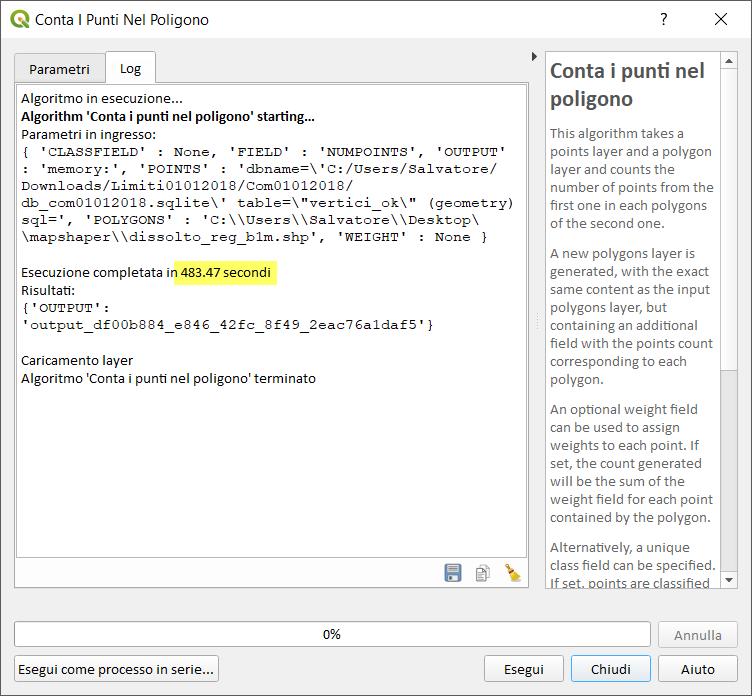
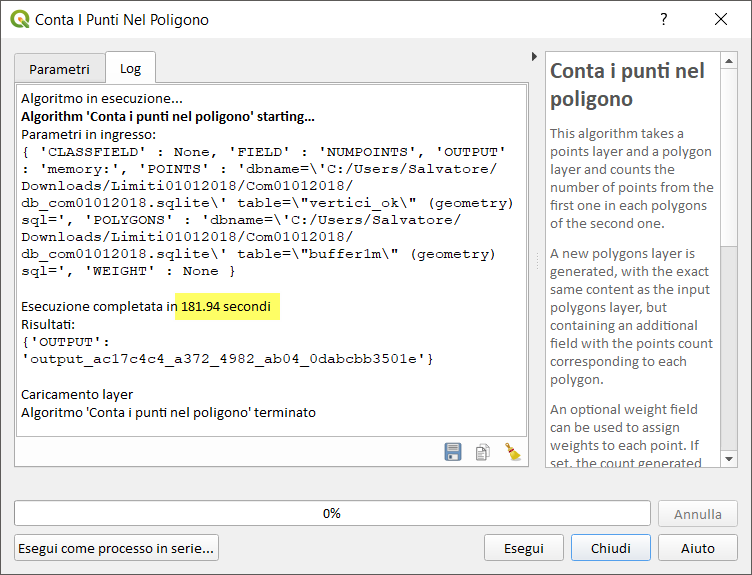
ultime prove

diff --git a/prove/dissolvi_regione.md b/prove/dissolvi_regione.md
@@ -10,6 +10,7 @@ dataset: db sqlite con spatialidex
     - [QGIS 3.3 master](#qgis-33-master)
     - [SpatiaLite_GUI 2.10](#spatialitegui-210)
     - [PostgreSQL 9.3 / PostGIS 2.2.3 / pgAdmin 3](#postgresql-93--postgis-223--pgadmin-3)
+    - [mapshaper](#mapshaper)
     - [RISULTATI (LZ50) - dissolvi per regione](#risultati-lz50---dissolvi-per-regione)
 
 <!-- /TOC -->
@@ -47,35 +48,42 @@ estraggo i vertici:
 ![](../img/spatialite_gui_210_info.png)
 
 ```
--- Creo tabella estraendo i vertici
-CREATE TABLE "vertici_com" AS
-SELECT ST_DissolvePoints(geometry) as geometry from Com01012018_WGS84;
-SELECT RecoverGeometryColumn('vertici_com','geometry',32632,'MULTIPOINT','XY');
--- Esplodo i vertici MultiPoint
-SELECT ElementaryGeometries( 'vertici_com' ,'geometry' , 'vertici' ,'out_pk' , 'out_multi_id', 1 ) as num, 'vertici' as label;
+-- crea geotabella dissolvendo per cod_reg
+CREATE TABLE dissolve_reg AS
+SELECT cod_reg, CastToMultiPolygon(ST_Union(geometry)) AS geometry 
+FROM com01012018_wgs84;
+SELECT RecoverGeometryColumn('dissolve_reg','geometry',32632,'MULTIPOLYGON','XY');
 ```
-![](../img/dissolvi_regione/spatialite_gui_210_03.png)
+![](../img/dissolvi_regione/spatialite_gui_210_01.png)
 
 ## PostgreSQL 9.3 / PostGIS 2.2.3 / pgAdmin 3
 
 ![](../img/pgAmin3_info.png)
 
 ```
--- crea tabella vertici_dump
-CREATE TABLE vertici_dump AS
-SELECT k.gid, k.geom  
-FROM ( SELECT (ST_DumpPoints(geom)).*, gid FROM com01012018_wgs84 )k;
+-- crea tabella dissolvi per regione
+CREATE TABLE dissolto_reg AS
+SELECT cod_reg, ST_Multi(ST_Union(geom)) AS geom  
+FROM public.com01012018_wgs84;
 ```
 ![](../img/dissolvi_regione/pgAmin3_01.png)
+
+## mapshaper 
+
+```
+time mapshaper encoding=utf-8  com01012018_wgs84.shp -dissolve cod_reg -o outdissolto_reg.shp
+```
+
+![](../img/dissolvi_regione/mapshaper_01.png)
 
 ## RISULTATI (LZ50) - dissolvi per regione
 
 tempo [sec]|programma
 :---------:|---------
-123|QGIS 2.18.24
-255|QGIS 3.2.3
-95|QGIS 3.3 master con debug
-340|SpatiaLite_GUI 2.10
-21|pgAdmin 3 con spatialIndex
-??|mapshaper
+588|QGIS 2.18.24
+253|QGIS 3.2.3
+247|QGIS 3.3 master con debug
+249|SpatiaLite_GUI 2.10
+381|pgAdmin 3 con spatialIndex
+9|mapshaper
 ??|R + RStudio

diff --git a/prove/conta_punti_poligono.md b/prove/conta_punti_poligono.md
@@ -10,6 +10,7 @@ dataset: db sqlite con spatialidex
     - [QGIS 3.3 master](#qgis-33-master)
     - [SpatiaLite_GUI 2.10](#spatialitegui-210)
     - [PostgreSQL 9.3 / PostGIS 2.2.3 / pgAdmin 3](#postgresql-93--postgis-223--pgadmin-3)
+    - [mapshaper](#mapshaper)
     - [RISULTATI (LZ50) - conta punti nel poligono](#risultati-lz50---conta-punti-nel-poligono)
 
 <!-- /TOC -->
@@ -54,7 +55,7 @@ SELECT RecoverGeometryColumn('vertici_com','geometry',32632,'MULTIPOINT','XY');
 -- Esplodo i vertici MultiPoint
 SELECT ElementaryGeometries( 'vertici_com' ,'geometry' , 'vertici' ,'out_pk' , 'out_multi_id', 1 ) as num, 'vertici' as label;
 ```
-![](../img/conta_punti_poligono/spatialite_gui_210_03.png)
+![](../img/conta_punti_poligono/spatialite_gui_210_01.png)
 
 ## PostgreSQL 9.3 / PostGIS 2.2.3 / pgAdmin 3
 
@@ -68,14 +69,22 @@ FROM ( SELECT (ST_DumpPoints(geom)).*, gid FROM com01012018_wgs84 )k;
 ```
 ![](../img/conta_punti_poligono/pgAmin3_01.png)
 
+## mapshaper
+
+```
+time node  --max-old-space-size=4192 `which mapshaper` encoding=utf-8 dissolto_reg_b1m.shp -join vertix.shp calc='join_count = count()' fields= -o out_count_reg.shp
+```
+
+![](../img/conta_punti_poligono/mapshaper_01.png)
+
 ## RISULTATI (LZ50) - conta punti nel poligono
 
 tempo [sec]|programma
 :---------:|---------
-123|QGIS 2.18.24
+214|QGIS 2.18.24
 272|QGIS 3.2.3
-483|QGIS 3.3 master con debug
-340|SpatiaLite_GUI 2.10
-21|pgAdmin 3 con spatialIndex
-??|mapshaper
+182|QGIS 3.3 master con debug
+??|SpatiaLite_GUI 2.10
+??|pgAdmin 3 con spatialIndex
+303|mapshaper
 ??|R + RStudio

diff --git a/prove/spatial_join.md b/prove/spatial_join.md
@@ -10,6 +10,7 @@ dataset: db sqlite con spatialidex
     - [QGIS 3.3 master](#qgis-33-master)
     - [SpatiaLite_GUI 2.10](#spatialitegui-210)
     - [PostgreSQL 9.3 / PostGIS 2.2.3 / pgAdmin 3](#postgresql-93--postgis-223--pgadmin-3)
+    - [mapshaper](#mapshaper)
     - [RISULTATI (LZ50) - unisci attributi per posizione](#risultati-lz50---unisci-attributi-per-posizione)
 
 <!-- /TOC -->
@@ -54,7 +55,7 @@ SELECT RecoverGeometryColumn('vertici_com','geometry',32632,'MULTIPOINT','XY');
 -- Esplodo i vertici MultiPoint
 SELECT ElementaryGeometries( 'vertici_com' ,'geometry' , 'vertici' ,'out_pk' , 'out_multi_id', 1 ) as num, 'vertici' as label;
 ```
-![](../img/spatial_join/spatialite_gui_210_03.png)
+![](../img/spatial_join/spatialite_gui_210_01.png)
 
 ## PostgreSQL 9.3 / PostGIS 2.2.3 / pgAdmin 3
 
@@ -68,14 +69,22 @@ FROM ( SELECT (ST_DumpPoints(geom)).*, gid FROM com01012018_wgs84 )k;
 ```
 ![](../img/spatial_join/pgAmin3_01.png)
 
+## mapshaper
+
+```
+time node  --max-old-space-size=4192 `which mapshaper` vertici_ok.shp -join dissolto_reg_b1m.shp calc= fields=cod_reg -o out_SPATIAL_reg.shp
+```
+
+![](../img/spatial_join/mapshaper_01.png)
+
 ## RISULTATI (LZ50) - unisci attributi per posizione
 
 tempo [sec]|programma
 :---------:|---------
-123|QGIS 2.18.24
+>600|QGIS 2.18.24
 565|QGIS 3.2.3
-95|QGIS 3.3 master con debug
-340|SpatiaLite_GUI 2.10
-21|pgAdmin 3 con spatialIndex
-??|mapshaper
+317|QGIS 3.3 master con debug
+??|SpatiaLite_GUI 2.10
+??|pgAdmin 3 con spatialIndex
+335|mapshaper
 ??|R + RStudio

diff --git a/prove/buffer1m.md b/prove/buffer1m.md
@@ -10,6 +10,7 @@ dataset: db sqlite con spatialidex
     - [QGIS 3.3 master](#qgis-33-master)
     - [SpatiaLite_GUI 2.10](#spatialitegui-210)
     - [PostgreSQL 9.3 / PostGIS 2.2.3 / pgAdmin 3](#postgresql-93--postgis-223--pgadmin-3)
+    - [mapshaper](#mapshaper)
     - [RISULTATI (LZ50) - buffer 1 m](#risultati-lz50---buffer-1-m)
 
 <!-- /TOC -->
@@ -54,7 +55,7 @@ SELECT RecoverGeometryColumn('vertici_com','geometry',32632,'MULTIPOINT','XY');
 -- Esplodo i vertici MultiPoint
 SELECT ElementaryGeometries( 'vertici_com' ,'geometry' , 'vertici' ,'out_pk' , 'out_multi_id', 1 ) as num, 'vertici' as label;
 ```
-![](../img/buffer1m/spatialite_gui_210_03.png)
+![](../img/buffer1m/spatialite_gui_210_01.png)
 
 ## PostgreSQL 9.3 / PostGIS 2.2.3 / pgAdmin 3
 
@@ -68,14 +69,18 @@ FROM ( SELECT (ST_DumpPoints(geom)).*, gid FROM com01012018_wgs84 )k;
 ```
 ![](../img/buffer1m/pgAmin3_01.png)
 
+## mapshaper
+
+Il Buffer sembra non previsto!!!
+
 ## RISULTATI (LZ50) - buffer 1 m
 
 tempo [sec]|programma
 :---------:|---------
-123|QGIS 2.18.24
+7|QGIS 2.18.24
 3.4|QGIS 3.2.3
 3.3|QGIS 3.3 master con debug
-340|SpatiaLite_GUI 2.10
-21|pgAdmin 3 con spatialIndex
+9|SpatiaLite_GUI 2.10
+9|pgAdmin 3 con spatialIndex
 ??|mapshaper
 ??|R + RStudio
